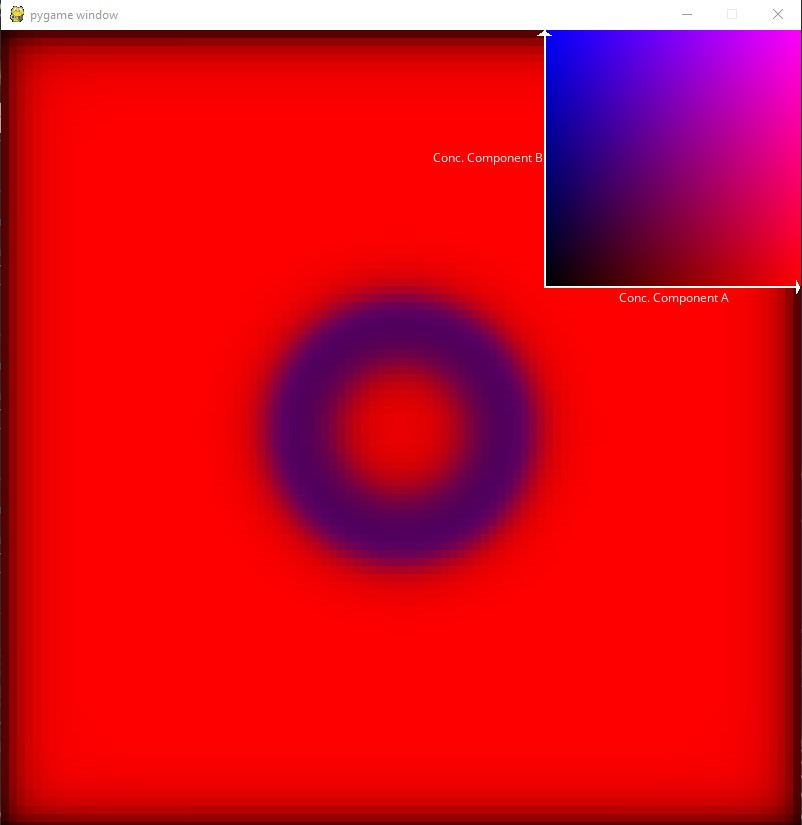
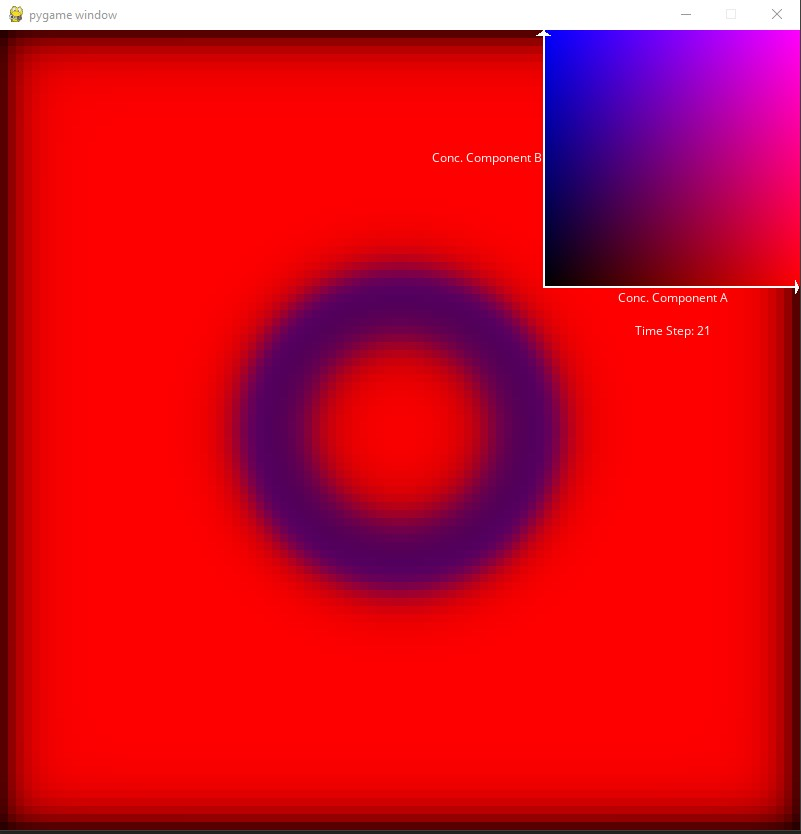
Added time steps to display window, update pictures.

diff --git a/groovy/vis/SimulateDiffusion.py b/groovy/vis/SimulateDiffusion.py
@@ -7,24 +7,22 @@ sys.path.insert(0, "../..")
 from groovy.pde import evolve, initialframe
 from ex_canvas import user_input
 
-input_desired = int(input("Do you want to specify boundary or have a random simulation? 0/1?"))
+# ask if the user wants to input boundary conditions
+input_desired = int(input("Do you want to specify boundary or have a random simulation? 0/1? "))
 
+# initial conditions for the pde
 if input_desired:
     inp = user_input()
 else:
-    inp = initialframe((100, 100)) # panos frame0
+    inp = initialframe((100, 100))
 
+# user input for the pde
 ru = float(input("Enter diffusion rate for U (0 <= ru <= 1): "))
 rv = float(input("Enter diffusion rate for V (0 <= rv <= 1): "))
 f = float(input("Enter rate constant 0 <= f <= 0.1: "))
 k = float(input("Enter rate constant 0 <= k <= 0.1: "))
 
-time_array = evolve(inp, ru, rv, f, k)
-# if np.isnan(np.sum(time_array)): raise RuntimeError('nans buddy')
-
-# Importing data to show visualization
-# with open('x100_y100_t5000_ru1_rv05_f_0367_k0649_periodic.pkl', 'rb') as f:
-#     time_array = pickle.load(f)
+time_array = evolve(inp, ru, rv, f, k) # getting the data for the diffusion equation
 
 # x-dimension, y-dimension, number of time steps, number of components = 2
 x_dim, y_dim, time, components = time_array.shape
@@ -56,7 +54,7 @@ def colorMap(conc1, conc2):
     color = (int(r),g,int(b))
     return color
 
-def displayGradient():
+def displayGradient(t):
     # draw a border
     draw_shape(window_dim - 257, 0, 256,258, (255,255,255))
     for i in range(256):
@@ -80,6 +78,12 @@ def displayGradient():
     # arrows for the 
     pygame.draw.polygon(window, (255,255,255), [[window_dim - 257, 0], [window_dim - 264, 5], [window_dim-250, 5]])
     pygame.draw.polygon(window, (255,255,255), [[window_dim - 5, 250], [window_dim - 5, 263], [window_dim-2, 256]])
+
+    # Display Time Steps
+    time = font.render("Time Step: " + str(t), True, (255,255,255))
+    timeRect = time.get_rect()
+    timeRect.center = (window_dim - int(255/2), 300)
+    window.blit(time, timeRect)
 
 def updateCells(k):
     # idea of this is to update concs simulatneoulsy so that it displays the "cells"
@@ -108,15 +112,12 @@ def game_loop():
             if event.type == pygame.QUIT:
                 running = False
         updateCells(k)
-        displayGradient()
+        displayGradient(k)
         # if k is less than the maximum number of time steps, iterate to the next time step
         if k != time-1:
             k += 1
         pygame.display.update()
         clock.tick(60)
-
-
-# print(time_array[1:4,1:4,:,:])
 
 # call the game loop
 game_loop()

diff --git a/groovy/vis/ex_canvas.py b/groovy/vis/ex_canvas.py
@@ -38,7 +38,7 @@ def user_input():
             cur_eve = pygame.event.wait()
             mouse_pos = pygame.mouse.get_pos()
             left_click, middle_click, right_click =  pygame.mouse.get_pressed()
-            if cur_eve.type == pygame.QUIT:
+            if cur_eve.type == pygame.QUIT or (cur_eve.type == pygame.KEYDOWN and cur_eve.key == pygame.K_RETURN):
                 raise StopIteration
                 ##the first if satements is if the button is pressed
             if cur_eve.type == pygame.MOUSEBUTTONDOWN:
